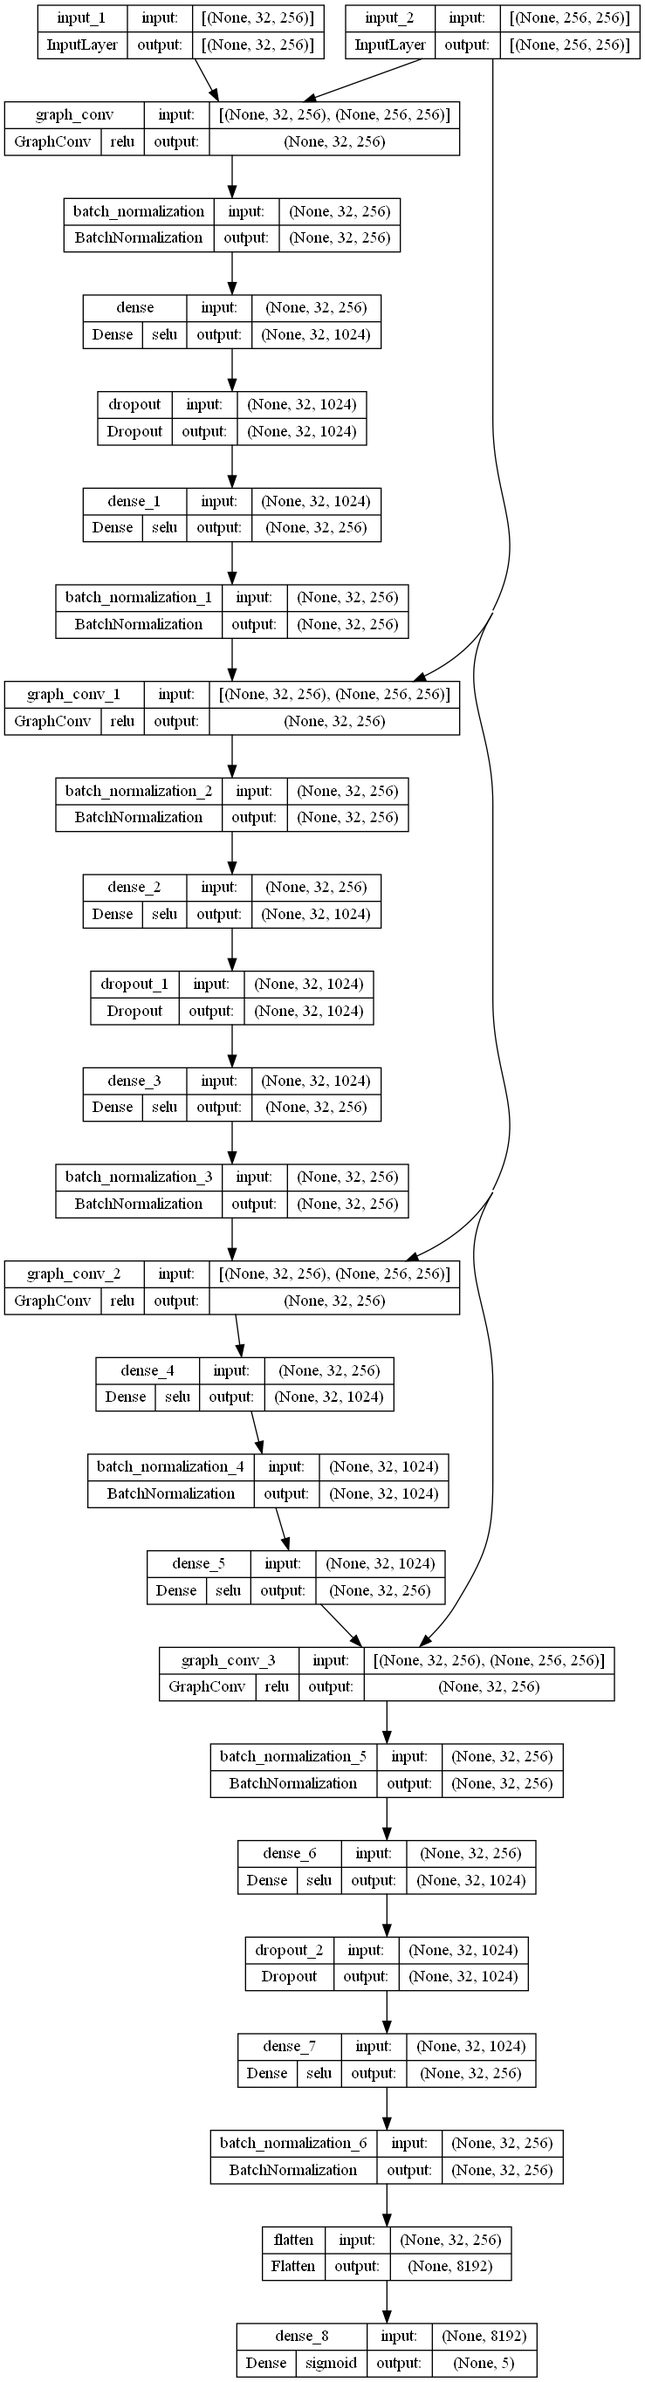
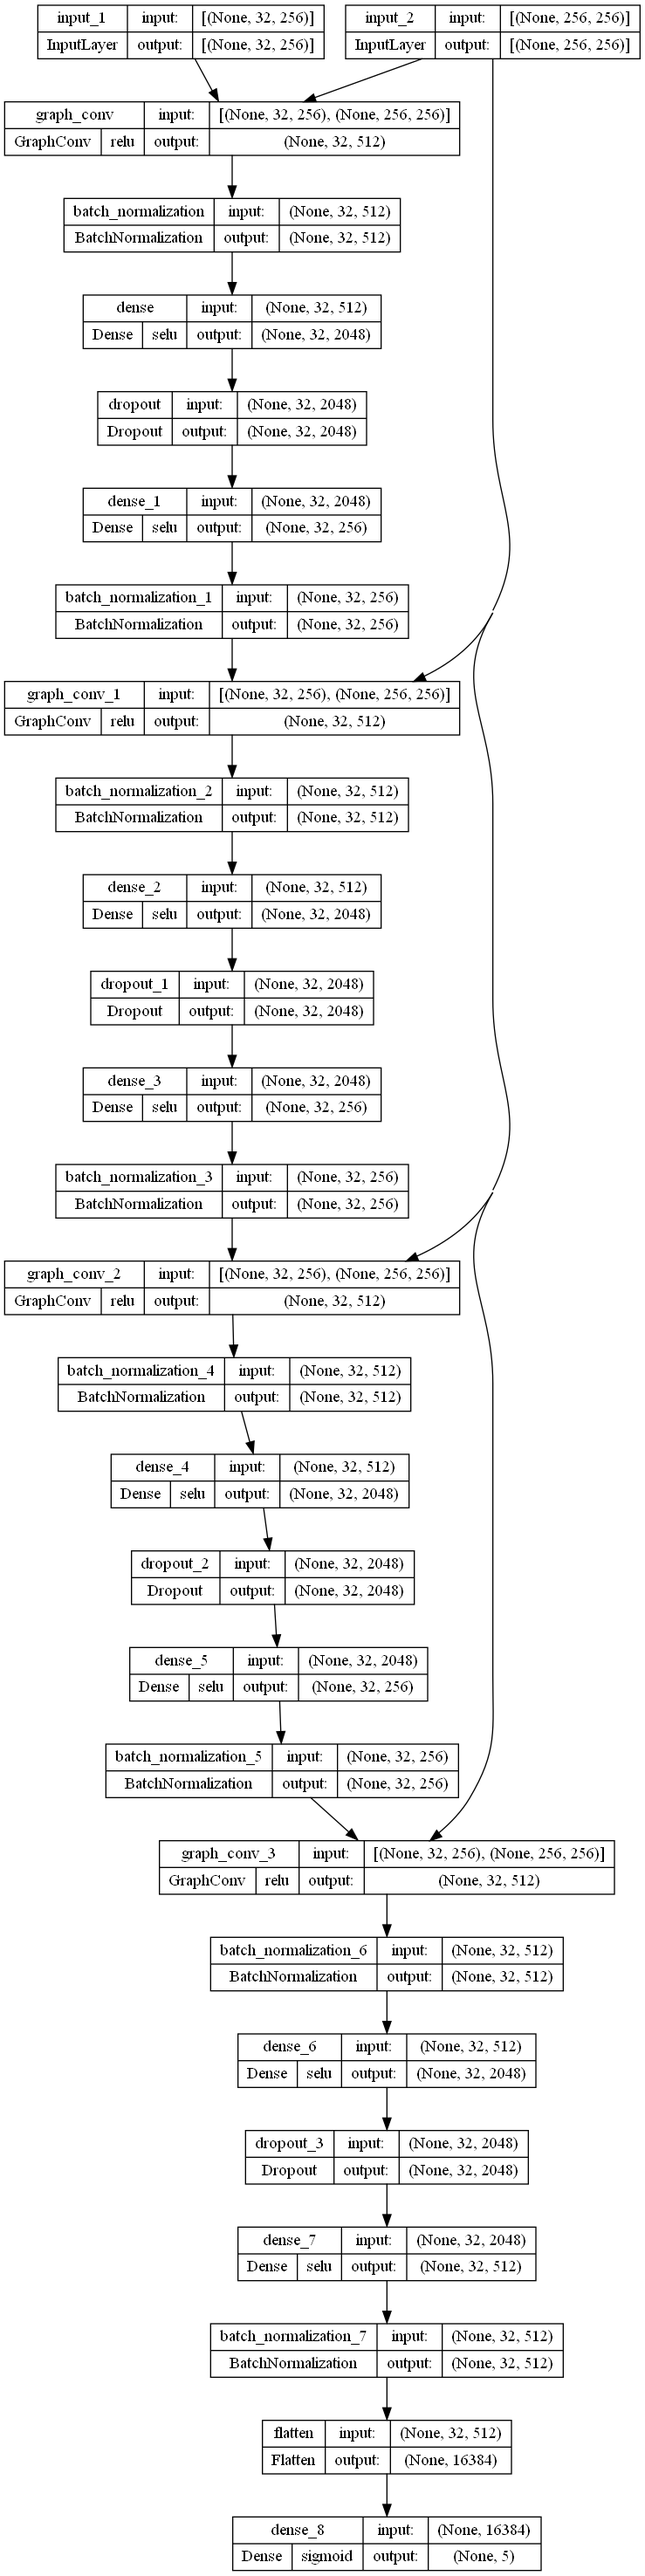
Update

diff --git a/Model/TextGCN/ScorePredictor.py b/Model/TextGCN/ScorePredictor.py
@@ -60,36 +60,45 @@ def model_build(feature_input=None):
     if feature_input is None:
         feature_input = tf.keras.Input(shape=(256,))
     adjacent_matrix = tf.keras.Input(shape=(256, 256))
-    x = GraphConv(num_outputs=256, activation='relu')([feature_input, adjacent_matrix])
+
+    x = GraphConv(num_outputs=512, activation='relu')([feature_input, adjacent_matrix])
     x = tf.keras.layers.BatchNormalization()(x)
-    x = tf.keras.layers.Dense(1024, activation=tf.nn.selu)(x)
-    x = tf.keras.layers.Dropout(0.25)(x)
+    x = tf.keras.layers.Dense(2048, activation=tf.nn.selu)(x)
+    x = tf.keras.layers.Dropout(0.125)(x)
     x = tf.keras.layers.Dense(256, activation=tf.nn.selu)(x)
     x = tf.keras.layers.BatchNormalization()(x)
-    x = GraphConv(num_outputs=256, activation='relu')([x, adjacent_matrix])
+
+    x = GraphConv(num_outputs=512, activation='relu')([x, adjacent_matrix])
     x = tf.keras.layers.BatchNormalization()(x)
-    x = tf.keras.layers.Dense(1024, activation=tf.nn.selu)(x)
-    x = tf.keras.layers.Dropout(0.25)(x)
+    x = tf.keras.layers.Dense(2048, activation=tf.nn.selu)(x)
+    x = tf.keras.layers.Dropout(0.125)(x)
     x = tf.keras.layers.Dense(256, activation=tf.nn.selu)(x)
     x = tf.keras.layers.BatchNormalization()(x)
-    x = GraphConv(num_outputs=256, activation='relu')([x, adjacent_matrix])
-    x = tf.keras.layers.Dense(1024, activation=tf.nn.selu)(x)
+
+    x = GraphConv(num_outputs=512, activation='relu')([x, adjacent_matrix])
     x = tf.keras.layers.BatchNormalization()(x)
-    x = tf.keras.layers.Dense(256, activation=tf.nn.selu)(x)
-    x = GraphConv(num_outputs=256, activation='relu')([x, adjacent_matrix])
-    x = tf.keras.layers.BatchNormalization()(x)
-    x = tf.keras.layers.Dense(1024, activation=tf.nn.selu)(x)
-    x = tf.keras.layers.Dropout(0.25)(x)
+    x = tf.keras.layers.Dense(2048, activation=tf.nn.selu)(x)
+    x = tf.keras.layers.Dropout(0.125)(x)
     x = tf.keras.layers.Dense(256, activation=tf.nn.selu)(x)
     x = tf.keras.layers.BatchNormalization()(x)
+
+    x = GraphConv(num_outputs=512, activation='relu')([x, adjacent_matrix])
+    x = tf.keras.layers.BatchNormalization()(x)
+    x = tf.keras.layers.Dense(2048, activation=tf.nn.selu)(x)
+    x = tf.keras.layers.Dropout(0.125)(x)
+    x = tf.keras.layers.Dense(512, activation=tf.nn.selu)(x)
+    x = tf.keras.layers.BatchNormalization()(x)
+
     x = tf.keras.layers.Flatten()(x)
     outputs = tf.keras.layers.Dense(5, activation=tf.nn.sigmoid)(x)
     model = tf.keras.Model(inputs=[feature_input, adjacent_matrix], outputs=outputs)
     return model
 
 
-def model_train(model, all_input, all_adj, all_output, use_generator=False, gen_files_count=8192, batch_size=2048,
-                step_per_epoch=100, val_split=0.25, workers=8):
+def model_train(
+        model, all_input, all_adj, all_output, use_generator=False, gen_files_count=8192, batch_size=2048,
+        step_per_epoch=100, val_split=0.25, workers=8
+):
     model.compile(
         optimizer=tf.keras.optimizers.Adam(learning_rate=1e-3, decay=1e-7),
         loss=tf.keras.losses.BinaryCrossentropy(),

diff --git a/Model/BertGCN/ScorePredictor.py b/Model/BertGCN/ScorePredictor.py
@@ -7,13 +7,13 @@ from Model.TextGCN.GNN import GraphConv
 from Model.TextGCN.ScorePredictor import data_load, model_build, model_train, model_test
 
 if __name__ == '__main__':
-    train = False
+    train = True
     test = not train
     bert_dim = 32
     files_count = 325
     print('开始读取数据，警告：生成新数据所需时间会非常漫长')
     all_input_, _, _ = data_load(
-        new_data=True,
+        new_data=False,
         stop_after=files_count,
         embed_level='graph',
         embed_encoder=encoder_bert,
